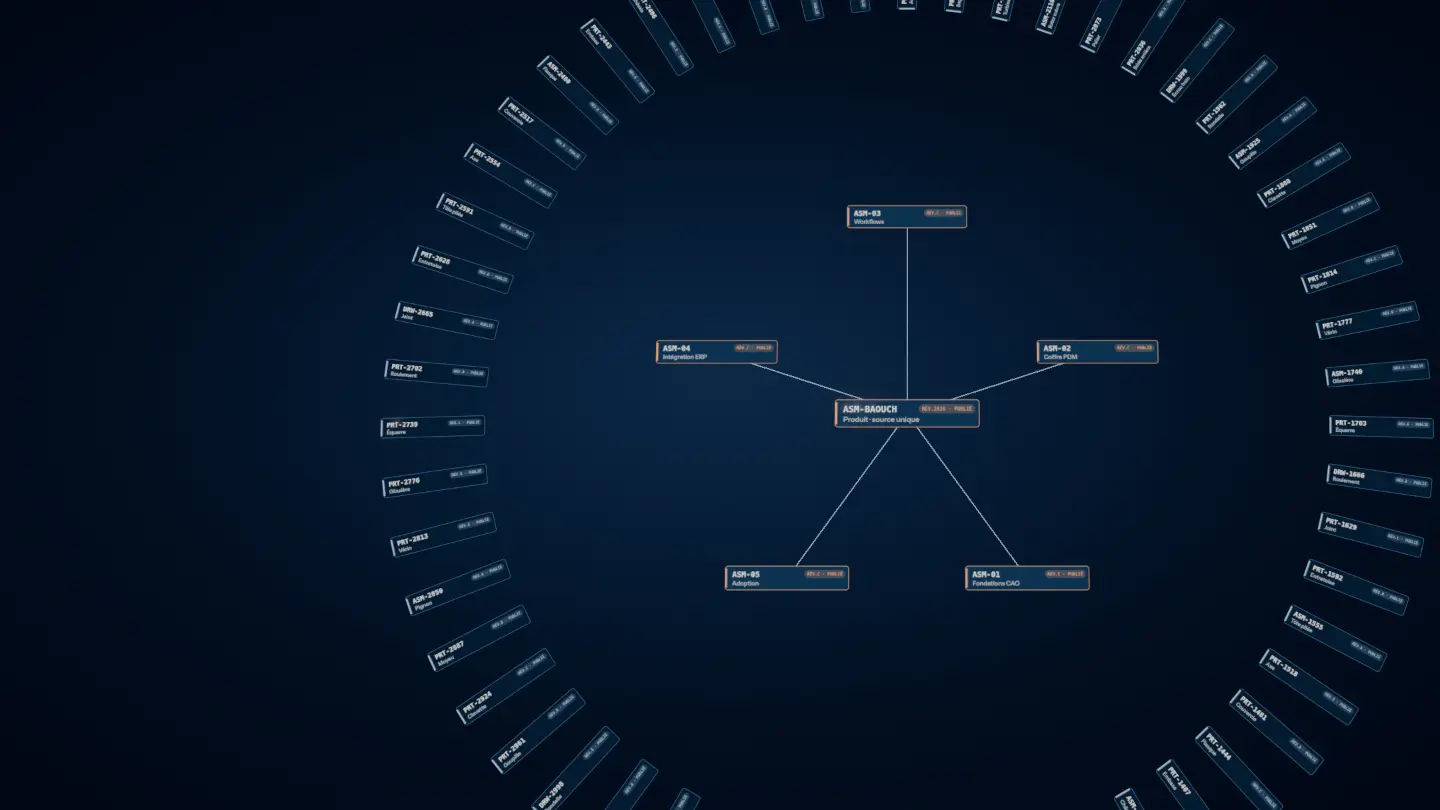
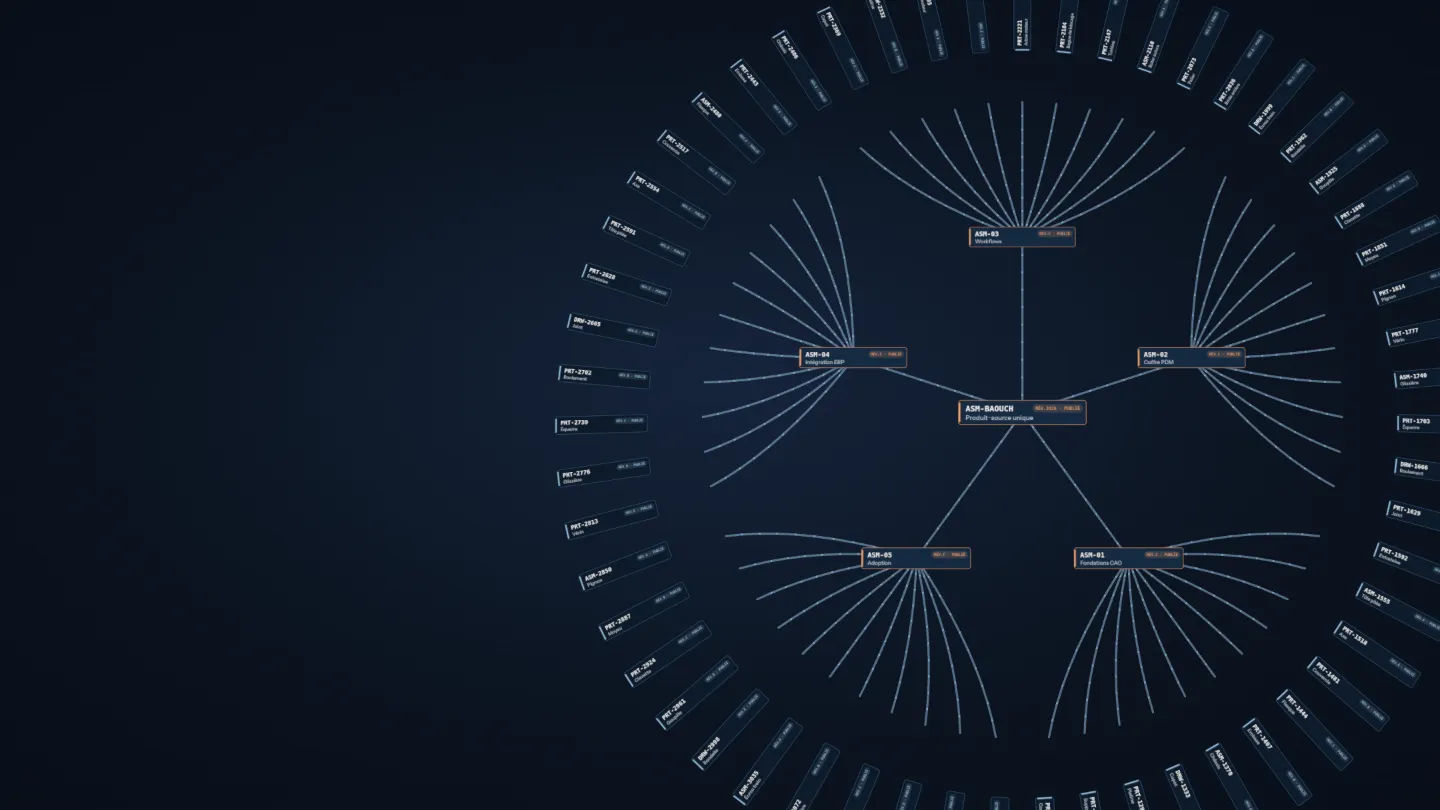
Accueil : l'animation du hero passe en anglais avec le site
Les textes peints dans la scène 3D (noms de fichiers, alertes, désignations,
RÉV./PUBLIÉ, fiche « Source unique ») étaient écrits en dur en français.
- hero-scene.js : textes FR/EN, option lang et setLang() qui redessine les
  planches à part puis les échange (aucune saccade)
- hero-film.js : langue du site au démarrage, suit l'événement langchange
- affiches anglaises dans public/film/hero/en/, choisies par un script en
  ligne selon la langue (et au changement de langue)
- affiches « mouvement réduit » FR régénérées sur la scène actuelle, pour
  rester identiques aux anglaises
- render-hero.mjs : --lang et --posters

Claude-Session: https://claude.ai/code/session_01Y875bZ9B8TnAxbxP1jvy3U

diff --git a/src/js/modules/hero-scene.js b/src/js/modules/hero-scene.js
@@ -27,22 +27,60 @@ const MONO = 'ui-monospace, "SF Mono", Menlo, Consolas, "DejaVu Sans Mono", mono
 const SANS = '"Instrument Sans Variable", "Instrument Sans", system-ui, sans-serif';
 
 // ---------------------------------------------------------------- les fichiers
-const CHAOS_BASE = [
-  'piece_finale', 'piece_finale_V2', 'piece_finale_V2_OK', 'piece_finale_V3_def', 'NE_PAS_TOUCHER',
-  'Copie de support', 'support (2)', 'support_modif_jean', 'plan_client_VRAI', 'ASSEMBLAGE_GENERAL_old',
-  'bride_v7_final_final', 'test', 'test2', 'Nouveau document', 'carter_ok_marc', 'arbre_moteur_BON',
-  'a_valider_URGENT', 'capot_v4 (conflit)', 'rev_C_ou_D', 'piece_sans_nom_12', 'Copie de Copie de platine',
-  'ancien_NE_PLUS_UTILISER', 'moteur_v2_bis', 'chassis_def_OK2', 'support_final_v9', 'tole_pliee_v3',
-  'ASM_client_modif', 'plan_A3_imprime', 'axe_BON_celui_la', 'embase (copie)', 'couvercle_vieux',
-  'SAV_2019_reprise', 'bati_version_marc', 'flasque_ok_ok', 'vis_speciale_v5', 'ressort_test_final',
-];
+// tous les textes peints dans la scène, dans les deux langues du site
+const TEXT = {
+  fr: {
+    chaos: [
+      'piece_finale', 'piece_finale_V2', 'piece_finale_V2_OK', 'piece_finale_V3_def', 'NE_PAS_TOUCHER',
+      'Copie de support', 'support (2)', 'support_modif_jean', 'plan_client_VRAI', 'ASSEMBLAGE_GENERAL_old',
+      'bride_v7_final_final', 'test', 'test2', 'Nouveau document', 'carter_ok_marc', 'arbre_moteur_BON',
+      'a_valider_URGENT', 'capot_v4 (conflit)', 'rev_C_ou_D', 'piece_sans_nom_12', 'Copie de Copie de platine',
+      'ancien_NE_PLUS_UTILISER', 'moteur_v2_bis', 'chassis_def_OK2', 'support_final_v9', 'tole_pliee_v3',
+      'ASM_client_modif', 'plan_A3_imprime', 'axe_BON_celui_la', 'embase (copie)', 'couvercle_vieux',
+      'SAV_2019_reprise', 'bati_version_marc', 'flasque_ok_ok', 'vis_speciale_v5', 'ressort_test_final',
+    ],
+    def: '_def',
+    hot: ['⚠ CONFLIT DE VERSION', '⚠ DOUBLON', '⚠ VERROUILLÉ PAR ?', '⚠ RÉFÉRENCE INTROUVABLE'],
+    who: ['?', 'jean', 'marc', 'stagiaire', 'inconnu'],
+    modified: (d, m) => `modifié le ${d}/0${m}`,
+    designations: [
+      'Bride arrière', 'Palier', 'Rotor cuivre', 'Turbine', 'Bague de blocage', 'Arbre moteur', 'Carter', 'Support moteur',
+      'Platine', 'Capot', 'Châssis', 'Embase', 'Flasque', 'Couvercle', 'Axe', 'Tôle pliée', 'Entretoise', 'Joint',
+      'Roulement', 'Équerre', 'Glissière', 'Vérin', 'Pignon', 'Moyeu', 'Clavette', 'Goupille', 'Rondelle', 'Écrou frein',
+    ],
+    subs: ['Fondations CAO', 'Coffre PDM', 'Workflows', 'Intégration ERP', 'Adoption'],
+    product: 'Produit · source unique',
+    rev: 'RÉV.', released: 'PUBLIÉ',
+    single: 'Source unique',
+    tally: '440 fichiers → 296 références · 144 doublons fusionnés · 0 conflit',
+  },
+  en: {
+    chaos: [
+      'final_part', 'final_part_V2', 'final_part_V2_OK', 'final_part_V3_final', 'DO_NOT_TOUCH',
+      'Copy of bracket', 'bracket (2)', 'bracket_edit_john', 'client_drawing_REAL', 'MAIN_ASSEMBLY_old',
+      'flange_v7_final_final', 'test', 'test2', 'New document', 'housing_ok_mark', 'motor_shaft_GOOD',
+      'to_approve_URGENT', 'cover_v4 (conflict)', 'rev_C_or_D', 'unnamed_part_12', 'Copy of Copy of plate',
+      'old_DO_NOT_USE', 'motor_v2_alt', 'frame_final_OK2', 'bracket_final_v9', 'bent_sheet_v3',
+      'ASM_client_edit', 'A3_drawing_printed', 'shaft_GOOD_this_one', 'base (copy)', 'lid_old',
+      'service_2019_rework', 'frame_mark_version', 'end_plate_ok_ok', 'custom_screw_v5', 'spring_test_final',
+    ],
+    def: '_final',
+    hot: ['⚠ VERSION CONFLICT', '⚠ DUPLICATE', '⚠ LOCKED BY ?', '⚠ REFERENCE NOT FOUND'],
+    who: ['?', 'john', 'mark', 'intern', 'unknown'],
+    modified: (d, m) => `modified 0${m}/${d}`,
+    designations: [
+      'Rear flange', 'Bearing block', 'Copper rotor', 'Turbine', 'Locking ring', 'Motor shaft', 'Housing', 'Motor bracket',
+      'Plate', 'Cover', 'Frame', 'Base', 'End plate', 'Lid', 'Shaft', 'Bent sheet', 'Spacer', 'Seal',
+      'Bearing', 'Angle bracket', 'Slide rail', 'Cylinder', 'Gear', 'Hub', 'Key', 'Pin', 'Washer', 'Lock nut',
+    ],
+    subs: ['CAD foundations', 'PDM vault', 'Workflows', 'ERP integration', 'Adoption'],
+    product: 'Product · single source',
+    rev: 'REV.', released: 'RELEASED',
+    single: 'Single source',
+    tally: '440 files → 296 references · 144 duplicates merged · 0 conflicts',
+  },
+};
 const EXT = ['.SLDPRT', '.SLDASM', '.SLDDRW', '.SLDPRT', '.SLDPRT', '.xlsx', '.pdf', '.STEP'];
-const DESIGNATIONS = [
-  'Bride arrière', 'Palier', 'Rotor cuivre', 'Turbine', 'Bague de blocage', 'Arbre moteur', 'Carter', 'Support moteur',
-  'Platine', 'Capot', 'Châssis', 'Embase', 'Flasque', 'Couvercle', 'Axe', 'Tôle pliée', 'Entretoise', 'Joint',
-  'Roulement', 'Équerre', 'Glissière', 'Vérin', 'Pignon', 'Moyeu', 'Clavette', 'Goupille', 'Rondelle', 'Écrou frein',
-];
-const SUBS = ['Fondations CAO', 'Coffre PDM', 'Workflows', 'Intégration ERP', 'Adoption'];
 const COLS = 8, ROWS = 37;
 const SLOTS = COLS * ROWS; // 296 cases par planche
 const BASE_W = 512, BASE_H = 108; // case de référence (les planches sont réduites selon l'appareil)
@@ -65,9 +103,9 @@ async function atlas(draw, R, maxAniso) {
   t.anisotropy = maxAniso;
   return t;
 }
-function drawChaos(g, s) {
-  const suffix = s >= CHAOS_BASE.length ? ['', '_v' + (2 + (s % 7)), ' (' + (1 + (s % 4)) + ')', '_OK', '_def'][s % 5] : '';
-  const name = CHAOS_BASE[s % CHAOS_BASE.length] + suffix + EXT[s % EXT.length];
+function drawChaos(g, s, L) {
+  const suffix = s >= L.chaos.length ? ['', '_v' + (2 + (s % 7)), ' (' + (1 + (s % 4)) + ')', '_OK', L.def][s % 5] : '';
+  const name = L.chaos[s % L.chaos.length] + suffix + EXT[s % EXT.length];
   const hot = hash(s, 3) < 0.14; // conflit, doublon, verrou perdu
   box(g, 6, 6, BASE_W - 12, BASE_H - 12, 10);
   g.fillStyle = hot ? '#2a1710' : '#121b28'; g.fill();
@@ -80,17 +118,16 @@ function drawChaos(g, s) {
   g.fillText(name.length > 27 ? name.slice(0, 26) + '…' : name, 76, 60);
   g.font = `18px ${MONO}`;
   g.fillStyle = hot ? '#efa471' : '#6d7f95';
-  g.fillText(hot ? ['⚠ CONFLIT DE VERSION', '⚠ DOUBLON', '⚠ VERROUILLÉ PAR ?', '⚠ RÉFÉRENCE INTROUVABLE'][s % 4]
-    : `modifié le ${1 + (s % 28)}/0${1 + (s % 9)} · ${['?', 'jean', 'marc', 'stagiaire', 'inconnu'][s % 5]}`, 76, 88);
+  g.fillText(hot ? L.hot[s % 4] : `${L.modified(1 + (s % 28), 1 + (s % 9))} · ${L.who[s % 5]}`, 76, 88);
 }
-const cleanName = (s) => {
-  if (s === 0) return { code: 'ASM-BAOUCH', des: 'Produit · source unique', rev: '2026' };
-  if (s <= 5) return { code: `ASM-0${s}`, des: SUBS[s - 1], rev: 'C' };
+const cleanName = (s, L) => {
+  if (s === 0) return { code: 'ASM-BAOUCH', des: L.product, rev: '2026' };
+  if (s <= 5) return { code: `ASM-0${s}`, des: L.subs[s - 1], rev: 'C' };
   const kind = s % 9 === 0 ? 'DRW' : s % 5 === 0 ? 'ASM' : 'PRT';
-  return { code: `${kind}-${String(1000 + ((s * 37) % 8999)).padStart(4, '0')}`, des: DESIGNATIONS[s % DESIGNATIONS.length], rev: 'ABCDE'[s % 5] };
+  return { code: `${kind}-${String(1000 + ((s * 37) % 8999)).padStart(4, '0')}`, des: L.designations[s % L.designations.length], rev: 'ABCDE'[s % 5] };
 };
-function drawClean(g, s) {
-  const n = cleanName(s);
+function drawClean(g, s, L) {
+  const n = cleanName(s, L);
   const top = s <= 5;
   box(g, 6, 6, BASE_W - 12, BASE_H - 12, 10);
   g.fillStyle = top ? '#152a41' : '#0e1b2b'; g.fill();
@@ -101,13 +138,13 @@ function drawClean(g, s) {
   g.font = `500 25px ${SANS}`;
   g.fillStyle = '#b6c2d0'; g.fillText(n.des, 34, 84);
   g.font = `17px ${MONO}`;
-  const chip = `RÉV.${n.rev} · PUBLIÉ`;
+  const chip = `${L.rev}${n.rev} · ${L.released}`;
   const w = g.measureText(chip).width + 22;
   box(g, BASE_W - w - 20, 22, w, 32, 16);
   g.fillStyle = top ? 'rgba(239,164,113,.18)' : 'rgba(155,198,230,.15)'; g.fill();
   g.fillStyle = top ? '#efa471' : '#9bc6e6'; g.fillText(chip, BASE_W - w - 9, 44);
 }
-function heroCardTexture(R, maxAniso) {
+function heroCardTexture(R, maxAniso, L) {
   const W = 2048, H = 560;
   const c = document.createElement('canvas');
   c.width = Math.round(W * R); c.height = Math.round(H * R);
@@ -120,13 +157,13 @@ function heroCardTexture(R, maxAniso) {
   g.lineWidth = 5; g.strokeStyle = '#efa471'; g.stroke();
   g.fillStyle = '#efa471'; g.fillRect(8, 60, 22, H - 120);
   g.font = `600 64px ${MONO}`;
-  g.fillStyle = '#9bc6e6'; g.fillText('ASM-BAOUCH · RÉV.2026', 96, 128);
+  g.fillStyle = '#9bc6e6'; g.fillText(`ASM-BAOUCH · ${L.rev}2026`, 96, 128);
   g.font = `500 150px ${SANS}`;
-  g.fillStyle = '#f4f3f0'; g.fillText('Source unique', 90, 292);
+  g.fillStyle = '#f4f3f0'; g.fillText(L.single, 90, 292);
   g.font = `44px ${MONO}`;
   g.fillStyle = '#b6c2d0';
-  g.fillText('440 fichiers → 296 références · 144 doublons fusionnés · 0 conflit', 96, 420);
-  const chip = '● PUBLIÉ';
+  g.fillText(L.tally, 96, 420);
+  const chip = `● ${L.released}`;
   g.font = `600 52px ${MONO}`;
   const w = g.measureText(chip).width + 70;
   box(g, W - w - 70, 70, w, 92, 46);
@@ -152,7 +189,8 @@ function glowTexture() {
 // du chaos dessinée, son programme compilé) ; la suite (planche rangée, autres
 // programmes, textures) se prépare pendant l'intro et `ready` se résout quand
 // tout avancement peut être affiché sans attente. Sinon, tout est prêt au retour.
-export async function createHeroScene({ canvas, atlasScale = 0.75, antialias = true, progressive = false } = {}) {
+export async function createHeroScene({ canvas, atlasScale = 0.75, antialias = true, progressive = false, lang = 'fr' } = {}) {
+  let L = TEXT[lang] || TEXT.fr;
   const renderer = new THREE.WebGLRenderer({ canvas, antialias, alpha: false, powerPreference: 'high-performance', preserveDrawingBuffer: false });
   renderer.setPixelRatio(1);
   const maxAniso = Math.min(8, renderer.capabilities.getMaxAnisotropy());
@@ -173,7 +211,7 @@ export async function createHeroScene({ canvas, atlasScale = 0.75, antialias = t
   const KEEP = SLOTS;     // ceux qui survivent ; les autres sont des doublons qui fusionnent
   const CARD_W = 1.1, CARD_H = CARD_W * BASE_H / BASE_W;
   // la planche du chaos n'emploie que la police système : elle n'attend pas la webfont
-  const chaosTex = await atlas(drawChaos, atlasScale, maxAniso);
+  let chaosTex = await atlas((g, s) => drawChaos(g, s, L), atlasScale, maxAniso);
   // la planche rangée ne sert qu'à partir du renommage (u ≥ 0.17) : en attendant,
   // le programme lit la planche du chaos à sa place (aucune recompilation)
   let cleanTex = null;
@@ -515,8 +553,8 @@ export async function createHeroScene({ canvas, atlasScale = 0.75, antialias = t
   }
   const finish = async () => {
     if (document.fonts?.load) await Promise.race([document.fonts.load(`500 40px ${SANS}`), new Promise((r) => setTimeout(r, 800))]).catch(() => {});
-    cleanTex = await atlas(drawClean, atlasScale, maxAniso);
-    heroCard.material.map = heroCardTexture(Math.min(1, atlasScale * 1.35), maxAniso);
+    cleanTex = await atlas((g, s) => drawClean(g, s, L), atlasScale, maxAniso);
+    heroCard.material.map = heroCardTexture(Math.min(1, atlasScale * 1.35), maxAniso, L);
     heroCard.material.needsUpdate = true;
     // téléversées avant d'être utiles : aucune saccade à leur première apparition
     [cleanTex, glow, heroCard.material.map].forEach((t) => renderer.initTexture(t));
@@ -531,10 +569,34 @@ export async function createHeroScene({ canvas, atlasScale = 0.75, antialias = t
   // la scène vit-elle au repos à cet avancement ? (sinon, inutile de redessiner)
   const idle = (u) => u < 0.17 || u > 0.77;
 
+  // changement de langue du site : les planches sont redessinées à part, puis
+  // échangées d'un coup (l'ancienne image reste affichée pendant le dessin)
+  let langToken = 0;
+  async function setLang(next) {
+    const nextL = TEXT[next] || TEXT.fr;
+    if (nextL === L) return false;
+    L = nextL;
+    const token = ++langToken;
+    const chaos = await atlas((g, s) => drawChaos(g, s, nextL), atlasScale, maxAniso);
+    // la planche rangée et la fiche ne sont dessinées qu'une fois la scène prête
+    await ready.catch(() => {});
+    if (token !== langToken) { chaos.dispose(); return false; }
+    const clean = await atlas((g, s) => drawClean(g, s, nextL), atlasScale, maxAniso);
+    if (token !== langToken) { chaos.dispose(); clean.dispose(); return false; }
+    const card = heroCardTexture(Math.min(1, atlasScale * 1.35), maxAniso, nextL);
+    [chaos, clean, card].forEach((t) => renderer.initTexture(t));
+    [chaosTex, cleanTex, heroCard.material.map].forEach((t) => t?.dispose());
+    chaosTex = chaos; cleanTex = clean;
+    cardMat.uniforms.tChaos.value = chaos;
+    cardMat.uniforms.tClean.value = clean;
+    heroCard.material.map = card;
+    return true;
+  }
+
   function dispose() {
     renderer.dispose();
     [chaosTex, cleanTex, glow, heroCard.material.map, scene.background].forEach((t) => t?.dispose());
   }
 
-  return { renderer, scene, camera, setSize, render, idle, dispose, ready };
+  return { renderer, scene, camera, setSize, render, idle, dispose, ready, setLang };
 }

diff --git a/video/hero/hero-film.html b/video/hero/hero-film.html
@@ -6,7 +6,8 @@
 <!--
   Rendu hors ligne de la scène du hero (affiches du site, images du film de présentation).
   La scène elle-même est celle du site : src/js/modules/hero-scene.js.
-  window.__frame(u, variant) rend l'avancement u ∈ [0, 1] et renvoie l'image WebP.
+  window.__frame(u, variant, quality, scale) rend l'avancement u ∈ [0, 1] et renvoie l'image WebP
+  (scale 2 : version haute densité des affiches). ?lang=en : textes de la scène en anglais.
 -->
 <style>
 @font-face { font-family: 'Instrument Sans'; src: url('/public/fonts/instrument-sans-var.woff2') format('woff2'); font-weight: 400 700; }
@@ -22,13 +23,14 @@ import { createHeroScene } from '/src/js/modules/hero-scene.js';
 
 const canvas = document.createElement('canvas');
 document.body.append(canvas);
-const hero = await createHeroScene({ canvas, atlasScale: 1 });
+const lang = new URLSearchParams(location.search).get('lang') || 'fr';
+const hero = await createHeroScene({ canvas, atlasScale: 1, lang });
 const out = document.createElement('canvas');
 const ctx = out.getContext('2d');
 
-window.__frame = (u, variant, quality = 0.8) => {
+window.__frame = (u, variant, quality = 0.8, scale = 1) => {
   const portrait = variant === 'mob';
-  const [W, H] = portrait ? [720, 1280] : [1440, 810];
+  const [W, H] = (portrait ? [720, 1280] : [1440, 810]).map((v) => v * scale);
   hero.setSize(W, H, 1.5); // suréchantillonnage
   hero.render(u, 0, portrait);
   out.width = W; out.height = H;

diff --git a/src/js/modules/hero-film.js b/src/js/modules/hero-film.js
@@ -33,7 +33,7 @@ export async function initHeroFilm(section) {
   // qualité de départ selon l'appareil ; ajustée ensuite à la mesure
   const big = innerWidth * (devicePixelRatio || 1) > 2200;
   // rendue dès que la tempête d'entrée peut tourner ; la suite se prépare pendant l'intro
-  const hero = await createHeroScene({ canvas, atlasScale: coarse ? 0.5 : big ? 1 : 0.75, progressive: true });
+  const hero = await createHeroScene({ canvas, atlasScale: coarse ? 0.5 : big ? 1 : 0.75, progressive: true, lang: document.documentElement.lang });
   // tant qu'elle n'est pas prête, le film s'arrête au seuil du renommage (u < 0.17)
   let cap = U_SAFE;
   hero.ready.then(() => { cap = 1; }, () => {});
@@ -89,6 +89,11 @@ export async function initHeroFilm(section) {
     STEPS.forEach(([a, b], i) => { if (u >= a && u < b) active = i; });
     if (active !== activeStep) { activeStep = active; steps.forEach((el, i) => el.classList.toggle('is-active', i === active)); }
   };
+
+  // les textes peints dans la scène suivent la langue du site
+  addEventListener('langchange', (e) => {
+    hero.setLang(e.detail.lang).then((changed) => { if (changed) dirty = true; }, () => {});
+  });
 
   // la scène prend sa taille définitive (plein écran collant) avec .is-live
   section.classList.add('is-live');

diff --git a/src/index.html b/src/index.html
@@ -80,6 +80,8 @@
                     <source media="(max-aspect-ratio: 1/1)" srcset="/film/hero/mob/000.webp 720w, /film/hero/mob/000@2x.webp 1440w" sizes="100vw">
                     <img src="/film/hero/desk/000.webp" srcset="/film/hero/desk/000.webp 1440w, /film/hero/desk/000@2x.webp 2880w" sizes="100vw" alt="" width="1440" height="810" fetchpriority="high" decoding="async">
                 </picture>
+                <!-- en anglais, les affiches anglaises (/film/hero/en/…) : la langue est déjà posée sur <html> par head-lang -->
+                <script>(function(p){var f=function(l){var en=l==='en';p.querySelectorAll('source,img').forEach(function(e){['srcset','src'].forEach(function(a){var v=e.getAttribute(a);if(v)e.setAttribute(a,en?v.replace(/\/film\/hero\/(?!en\/)/g,'/film/hero/en/'):v.replace(/\/film\/hero\/en\//g,'/film/hero/'))})})};if(document.documentElement.lang==='en')f('en');addEventListener('langchange',function(e){f(e.detail.lang)})})(document.currentScript.previousElementSibling)</script>
                 <canvas class="fh-canvas" aria-hidden="true"></canvas>
                 <div class="fh-veil" aria-hidden="true"></div>
                 <div class="container-site hero-inner fh-intro">

diff --git a/video/README.md b/video/README.md
@@ -50,7 +50,8 @@ Scénario : des centaines de fichiers en tourbillon, aux noms que tout bureau d'
 replie en rosace de nomenclature → tout converge en une seule fiche, la « source unique ».
 
 Le même module sert au rendu hors ligne (`video/hero/hero-film.html` + `render-hero.mjs`) : les
-4 affiches de `public/film/hero/` (image d'attente, version sans animation) et la séquence
+affiches de `public/film/hero/` (image d'attente, version sans animation ; `en/` pour le site en
+anglais : les textes peints dans la scène suivent la langue choisie) et la séquence
 complète `video/hero/frames/` (non versionnée) utilisée par le film de présentation.
 
 ```sh
@@ -58,4 +59,6 @@ npx http-server -p 8090 -s -c-1 . &
 node video/hero/render-hero.mjs --variant desk     # séquence → video/hero/frames/desk
 node video/hero/render-hero.mjs --variant mob
 node video/hero/render-hero.mjs --stills 0,0.5,1   # images de contrôle → video/hero/.stills/
+node video/hero/render-hero.mjs --posters --lang fr # affiches du site → public/film/hero/
+node video/hero/render-hero.mjs --posters --lang en # affiches anglaises → public/film/hero/en/
 ```
